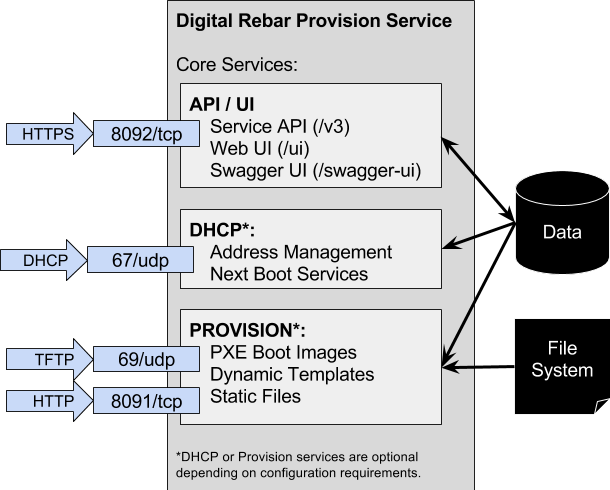
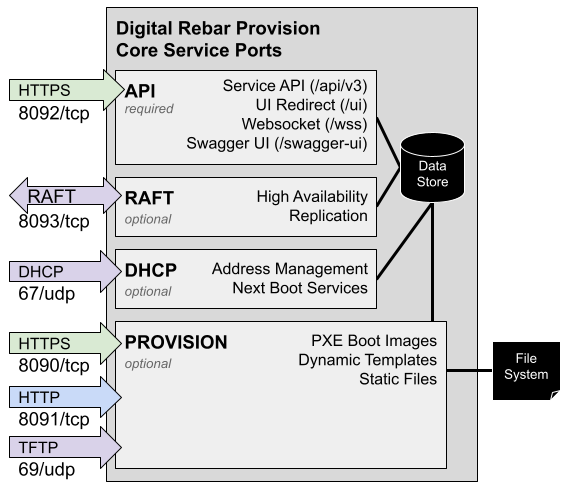
doc: update ports view page

diff --git a/doc/server.rst b/doc/server.rst
@@ -18,16 +18,18 @@ Services
 
 Provisioning requires handoffs between multiple services as described
 in the :ref:`rs_workflows` section.  Since several of services are
-standard protocols (DHCP, TFTP, HTTP), it may be difficult to change
-ports without breaking workflow.
+standard protocols (DHCP, TFTP, HTTP, HTTPS), it may be difficult to
+change ports without breaking workflow.
 
-The figure below illustrates the three core Digital Rebar Provision
+The figure below illustrates the four core Digital Rebar Provision
 services including protocols and default ports.  The services are:
 
-#. Web - These services provide control for the other services
+#. API - These services provide control for the other services
 
-   #. API: REST endpoints with Swagger definition
-   #. UI: User interface and Swagger helpers
+   #. Service API: REST endpoints with Swagger definition
+   #. UI: User interface redirect and local UX
+   #. Webscoket interface
+   #. Swagger UI interface
 
 #. DHCP: Address management includes numerous additional option fields
    used to tell systems how to interact with other data center
@@ -38,6 +40,11 @@ services including protocols and default ports.  The services are:
    #. TFTP: very simple (but slow) protocol that's used by firmware
       boot processes because it is very low overhead.
    #. HTTP: faster file transfer protocol used by more advanced boot processes
+   #. HTTPS: faster file transfer protocol used by more advanced boot processes
+
+#. RAFT: Synchronization and High Availability Support
+
+   #. RAFT: Consensus protocol for maintaining state with the high availability cluster.
 
 
 .. figure::  images/core_services.png
@@ -60,15 +67,18 @@ Ports     Feature   Usage
 8090/tcp  PROV      HTTP-base Dynamic File Server
 8091/tcp  PROV      HTTP-base Static File Server
 8092/tcp  Always    API and Swagger-UI
+8093/tcp  RAFT      High Availability Protocol
 ========  =======   =============================
 
 All default ports can be changed at start up time of the ``dr-provision`` service.  NOTE that changing DHCP and TFTP ports has wide ranging implications and is likely not a good idea (many firmware implementations can not be changed to use alternate port numbers).
 
 Port access requirements:
 
-In all provisioning usage cases (67, 69, 4011, 8090, 8091, and 8092) the ports *from* the Machines being provisioned *to* the DRP Endpoint must be accessible.  The DRP Endpont must be able to reach the Machines being provisioned on port 67 for In addition, the API and Swagger-UI port must be accessible to any operator/administrator workstations or systems that are controlling and managing the DRP Endpoint service.  Additionally any services or integrations that interact with the DRP Endpoint (eg IPAM, DCIM, Asset Management, CMS, CMDB, etc) may need access to the API port.  BINL is an optional protocol and only needed if you are using it in place of PXE.
+In all provisioning usage cases (67, 69, 4011, 8090, 8091, and 8092) the ports *from* the Machines being provisioned *to* the DRP Endpoint must be accessible.  The DRP Endpont must be able to reach the Machines being provisioned on port 67.  In addition, the API and Swagger-UI port must be accessible to any operator/administrator workstations or systems that are controlling and managing the DRP Endpoint service.  Additionally, any services or integrations that interact with the DRP Endpoint (eg IPAM, DCIM, Asset Management, CMS, CMDB, etc) may need access to the API port.  BINL is an optional protocol and only needed if you are using it in place of PXE.
 
 Optionally, the DRP Endpoint *MAY* use the HTTPS (443/tcp) or SSH port (22/tcp) to connect to machine remotely.  This is an OUTBOUND port usage.  It is a common usage for Terraform and Ansible execution from the DRP Endpoint.
+
+Within an HA cluster, the DRP Endpoints *MUST* be able to bi-directionally communicate over the RAFT port.  HA is an optional configuration.
 
 Additionally, the DRP Endpoint can export Prometheus metrics, and by default metric service will run on port 8080.  If you wish to scrape DRP metrics, you will need to accommodate this port as well.
 
@@ -80,23 +90,28 @@ Here is an example of Linux based IPTables firewall rules.  Note that you may ne
 		INTERFACE=eth0
 		PORT_DHCP=67:68
 		PORT_TFTP=69
-		PORT_FILE=8090
+		PORT_SFILE=8090
 		PORT_FILE=8091
 		PORT_BINL=4011
 		PORT_PROV=8092
 		PORT_PROM=8080
+		PORT_RAFT=8093
 		SOURCES=""       # add appropriate "-s IP/netmask" etc statements here
 
 		# for local connectivity
 		iptables -A INPUT -i lo -p tcp -m tcp --dport $PORT_FILE -j ACCEPT
+		iptables -A INPUT -i lo -p tcp -m tcp --dport $PORT_SFILE -j ACCEPT
 		iptables -A INPUT -i lo -p tcp -m tcp --dport $PORT_PROV -j ACCEPT
 
 		# adjust input interface appropriately
 		iptables -A INPUT -i $INTERFACE $SOURCES -p tcp -m tcp --dport $PORT_FILE -j ACCEPT
+		iptables -A INPUT -i $INTERFACE $SOURCES -p tcp -m tcp --dport $PORT_SFILE -j ACCEPT
 		iptables -A INPUT -i $INTERFACE $SOURCES -p tcp -m tcp --dport $PORT_PROV -j ACCEPT
 		iptables -A INPUT -i $INTERFACE $SOURCES -p udp --dport $PORT_BINL -j ACCEPT
 		iptables -A INPUT -i $INTERFACE $SOURCES -p udp -m udp --sport $PORT_DHCP --dport $PORT_DHCP -j ACCEPT
 		iptables -A INPUT -i $INTERFACE $SOURCES -p udp --dport $PORT_TFTP -m state --state NEW,ESTABLISHED -j ACCEPT
+		iptables -A INPUT -i $INTERFACE $SOURCES -p tcp -m tcp --sport $PORT_RAFT -j ACCEPT
+		iptables -A INPUT -i $INTERFACE $SOURCES -p tcp -m tcp --dport $PORT_RAFT -j ACCEPT
 
 
 If your DRP Endpoint is listening on multiple network interfaces, you will need to adjust these rules appropriately.
